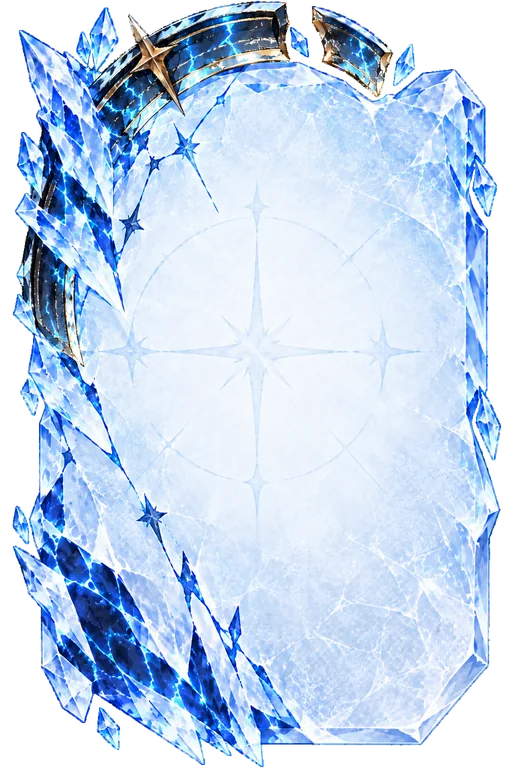
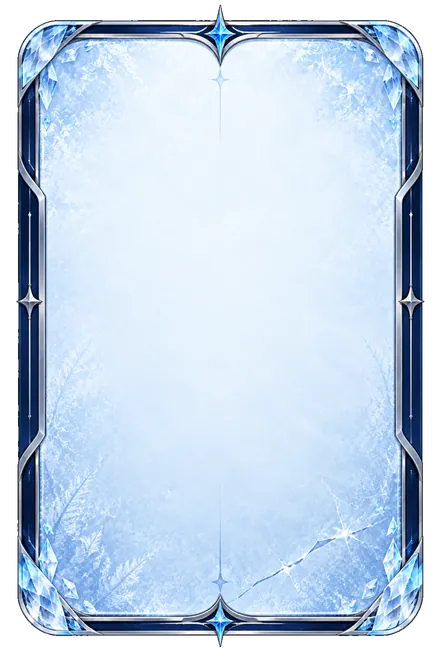
v135: セトラのカード差し替えと初手/決定打の速度分離
カード
- 通常カード: 銀枠＋霜のデザイン 1.2MB→31KB
- 星環カード: 金枠＋濃紺＋光る輪 1.4MB→49KB
- 440x660。並べた時にひと目で区別がつくようになった

速度
- 初手(場が0枚)と決定打(10完成)を個別に指定できるようにした
  firstMs/firstJit/curStepFirst/curArrFirst/curHoldFirst/flyMsFirst/winMs/winJit
- セトラの初手: 合計225〜265ms。人のGO後1枚目(約250〜400ms)より速く、
  「GOで4枚連打して稼ぐ」戦法が通らなくなる
- セトラの決定打: 合計1010〜1230ms。反射神経で負ける理不尽さを解消
- 通常の手は従来通り670〜895ms
- 未指定のステージは全て従来値のまま（確認済み）

diff --git a/index.html b/index.html
@@ -2945,7 +2945,8 @@ function TutorialScreen({pendingDiff,onFinish,onExit,trackNum,toggleMusic,coachN
 
 
 // ── MenuScreen ──
-const APP_VER='v134'; // v134(2026/09/09): 凍結カードを専用の絵に差し替え。中央の濃紺の円に残り秒を白抜きで大きく表示（CSSで描いていた氷は廃止）
+const APP_VER='v135'; // v135(2026/09/09): セトラのカード2種を新デザインに差し替え。初手のみ人のタップより速く(約250ms)、決定打は遅く(約1100ms)して連打での稼ぎを封じつつ理不尽さを解消
+// v134(2026/09/09): 凍結カードを専用の絵に差し替え。中央の濃紺の円に残り秒を白抜きで大きく表示（CSSで描いていた氷は廃止）
 // v133(2026/09/09): 星環カードを軽量化 140KB→89KB（512x753→440x647、展開RAM 1.5MB→1.1MB）
 // v132(2026/09/09): セトラの星環カードを金装飾入りの新デザインに変更（通常カードと見分けがつかなかったため）。凍結の残り秒を右下から中央の大きい表示に移動
 // v131(2026/09/09): セトラの凍結を3枚→1枚に緩和（勝率16%→49%）。凍結音の立ち上がりを76%強めて気づきやすく。凍った瞬間だけカードを光らせる演出を追加
@@ -3049,7 +3050,7 @@ const AREA_01={
     {no:11,challengeNo:1,name:'ルナ',description:'異界から流れ着いた強い魂。ルナからレイピアへ変身する',icon:'card',winPt:30,diff:'normal',rule:'normal',challenge:true,rivalName:'ルナ',form2Name:'レイピア',shiftPt:15,ability:'starRing',bgm:'Iridescent_Trap.mp3'},
     {no:12,challengeNo:2,name:'モルフォ',description:'鱗粉の幻惑で手札の数字を変え続ける強敵',icon:'card',winPt:30,diff:'hard',rule:'normal',challenge:true,ch8:true,unlockAfter:11,rivalName:'モルフォ',ability:'confuse',speed:0.45,curStep:30,curArr:60,curHold:70,flyMs:240,intro:'video/intro-8-morpho.mp4',bgm:'Cold Logic.mp3'},
     // v127 チャレンジ③ セトラ。モルフォ撃破で解放。氷結の環＋盤面を読む思考
-    {no:13,challengeNo:3,name:'セトラ',description:'氷結の星環で手札を凍らせ、盤面を読んで退路を断つ',icon:'snow',winPt:30,diff:'master',rule:'normal',challenge:true,ch9:true,unlockAfter:12,rivalName:'セトラ',ability:'freeze',smart:true,speed:0.45,curStep:30,curArr:60,curHold:70,flyMs:240,bgm:'Frozen%20Judgment.mp3'},
+    {no:13,challengeNo:3,name:'セトラ',description:'氷結の星環で手札を凍らせ、盤面を読んで退路を断つ',icon:'snow',winPt:30,diff:'master',rule:'normal',challenge:true,ch9:true,unlockAfter:12,rivalName:'セトラ',ability:'freeze',smart:true,speed:0.45,curStep:30,curArr:60,curHold:70,flyMs:240,firstMs:20,firstJit:40,curStepFirst:10,curArrFirst:20,curHoldFirst:25,flyMsFirst:120,winMs:520,winJit:220,bgm:'Frozen%20Judgment.mp3'},
   ]
 };
 const STAGES={
@@ -3899,7 +3900,11 @@ function App(){
   const[dCur,setDCur]=useState({id:null,tap:false});const dCurR=useRef(null);const curBusyR=useRef(false);const curT=useRef([]);const curTokR=useRef(0);
   // v113: カーソルの速さはステージ側で指定できる（未指定なら従来通り）
   const _so=stageOptsR.current||{};
-  const CUR_STEP=_so.curStep||(_so.speed<1?55:110),CUR_HOLD=_so.curHold||(_so.speed<1?120:230),CUR_ARR=_so.curArr||120;
+  // v135: 初手（場が0枚）だけカーソルも降下も速める。人のタップ速度を上回らせるため
+  const _first=()=>fieldR.current.length===0&&!!_so.firstMs;
+  const CUR_STEP=()=>_first()?(_so.curStepFirst||_so.curStep||55):(_so.curStep||(_so.speed<1?55:110));
+  const CUR_HOLD=()=>_first()?(_so.curHoldFirst||_so.curHold||120):(_so.curHold||(_so.speed<1?120:230));
+  const CUR_ARR =()=>_first()?(_so.curArrFirst||_so.curArr||120):(_so.curArr||120);
   function cursorToCard(targetId,onArrive,check,onCancel){ // v121: 手札番号ではなくカード固有IDを追う
     if(curBusyR.current||targetId==null)return false;
     const order=dSlotsR.current.filter(id=>id!=null&&dIdsR.current.includes(id));
@@ -3912,10 +3917,10 @@ function App(){
     let cancelled=false;
     const abort=()=>{if(tok!==curTokR.current)return;curTokR.current++;curT.current.forEach(clearTimeout);curT.current=[];curBusyR.current=false;setDCur(c=>({id:c.id,tap:false}));if(!cancelled){cancelled=true;onCancel&&onCancel();}};
     const at=(ms,f)=>curT.current.push(setTimeout(()=>{if(!valid()){abort();return;}f();},ms));
-    steps.forEach((id,k)=>at((k+1)*CUR_STEP,()=>{dCurR.current=id;setDCur({id,tap:false});try{fxTone({f:1500,type:'sine',v:0.012,a:0.002,d:0.03,rev:0.1});}catch(e){}}));
-    const arrive=(steps.length+1)*CUR_STEP+CUR_ARR;
+    steps.forEach((id,k)=>at((k+1)*CUR_STEP(),()=>{dCurR.current=id;setDCur({id,tap:false});try{fxTone({f:1500,type:'sine',v:0.012,a:0.002,d:0.03,rev:0.1});}catch(e){}}));
+    const arrive=(steps.length+1)*CUR_STEP()+CUR_ARR();
     at(arrive,()=>{dCurR.current=targetId;setDCur({id:targetId,tap:true});try{fxTone({f:2200,f2:1200,type:'sine',v:0.05,a:0.002,d:0.12,rev:0.3});}catch(e){}});
-    at(arrive+CUR_HOLD,()=>{curBusyR.current=false;setDCur({id:targetId,tap:false});onArrive&&onArrive();});
+    at(arrive+CUR_HOLD(),()=>{curBusyR.current=false;setDCur({id:targetId,tap:false});onArrive&&onArrive();});
     return true;
   }
   function cursorTo(target,onArrive,check){const id=dIdsR.current[target];return cursorToCard(id,onArrive,check);}
@@ -4265,7 +4270,7 @@ function App(){
       if(CHRONO_CONFIG.guaranteeFirstUnlock&&firstChrono&&st.no===firstChrono.no&&!saveR.current.chronoIntro){chrono=true;updSave(s=>{s.chronoIntro=true;return s;});}
       else chrono=Math.random()<CHRONO_CONFIG.appearRate;
     }
-    stageOptsR.current={chrono,timeLimit:st.timeLimit||10,ability:st.ability||null,champion:st.champion||null,challenge:!!st.challenge,ch8:!!st.ch8,ch9:!!st.ch9,smart:!!st.smart,speed:st.speed||1,curStep:st.curStep||null,curArr:st.curArr||null,curHold:st.curHold||null,flyMs:st.flyMs||null,rivalName:st.rivalName||null,form2Name:st.form2Name||null,shiftPt:st.shiftPt||null,bgm:st.bgm||null};
+    stageOptsR.current={chrono,firstMs:st.firstMs||null,firstJit:st.firstJit||0,curStepFirst:st.curStepFirst||null,curArrFirst:st.curArrFirst||null,curHoldFirst:st.curHoldFirst||null,flyMsFirst:st.flyMsFirst||null,winMs:st.winMs||null,winJit:st.winJit||0,timeLimit:st.timeLimit||10,ability:st.ability||null,champion:st.champion||null,challenge:!!st.challenge,ch8:!!st.ch8,ch9:!!st.ch9,smart:!!st.smart,speed:st.speed||1,curStep:st.curStep||null,curArr:st.curArr||null,curHold:st.curHold||null,flyMs:st.flyMs||null,rivalName:st.rivalName||null,form2Name:st.form2Name||null,shiftPt:st.shiftPt||null,bgm:st.bgm||null};
     if(st.challenge&&typeof SHIFT_VIDEO!=='undefined'){try{[SHIFT_VIDEO.v1,SHIFT_VIDEO.v2].forEach(u=>fetch(u,{mode:'no-cors',cache:'force-cache'}).catch(()=>{}));}catch(e){}} // v78: 変身動画を先読み
     if(st.no===1&&!st.challenge&&!saveR.current.storyIntroSeen){setPhase('storyIntro');phaseR.current='storyIntro';return;}
     if(st.champion&&CHAMPIONS[st.champion]){setPendingDiff(st.diff);setPhase('champIntro');phaseR.current='champIntro';return;} // v61 登場画面を挟む
@@ -4436,6 +4441,11 @@ function App(){
     }
     const _canWin10=dHR.current.some(v=>canPlay(v,fieldSumR.current,fieldR.current)&&fieldSumR.current+v===10);
     d=Math.round(d*((stageOptsR.current&&stageOptsR.current.speed)||1)); // v112: 速い相手
+    // v135 セトラ: 初手だけ人のタップより速くして「GOで4枚連打」を封じる。
+    // 逆に決定打(10完成)は遅らせる。反射神経で負けるのは理不尽で面白くないため
+    const so135=stageOptsR.current||{};
+    if(delay===null&&fieldR.current.length===0&&so135.firstMs)d=so135.firstMs+Math.round(Math.random()*(so135.firstJit||0));
+    if(delay===null&&_canWin10&&so135.winMs)d=Math.max(d,so135.winMs+Math.round(Math.random()*(so135.winJit||0)));
     // v113: 10を完成させる一手だけは、速度倍率のあとでも下限220msを守る（v40の趣旨）
     // ここを消すと人が反応できない速さになる。モルフォを更に強くしたい時もこの行は残す
     if(delay===null&&_canWin10)d=Math.max(d,220);
@@ -4537,7 +4547,9 @@ function App(){
     const x0=cr.left+cr.width/2,y0=cr.top+cr.height/2,x1=fr.left+n*(cardW+gap)+cardW/2,y1=fr.top+fr.height/2;
     const newDH=dHand.filter((_,i)=>i!==idx),newRf=rf.filter((_,i)=>i!==idx),newIds=dIdsR.current.filter((_,i)=>i!==idx);
     setDealer(newDH,newRf,newIds);
-    const FLY_MS=(stageOptsR.current&&stageOptsR.current.flyMs)||((stageOptsR.current&&stageOptsR.current.speed<1)?380:680);
+    const _so2=stageOptsR.current||{};
+    // v135: 初手だけ降下も速める
+    const FLY_MS=(fieldR.current.length===0&&_so2.flyMsFirst)?_so2.flyMsFirst:(_so2.flyMs||(_so2.speed<1?380:680));
     flyR.current={id:pick.id,value:chosen,face,rf:pickedRf};setFlyCard({k:Date.now(),value:chosen,face,x0,y0,x1,y1,w:cardW,d:FLY_MS});
     try{fxAir({v:0.03,a:0.02,d:0.5,hp:4000,rev:0.5});}catch(e){}
     setTimeout(()=>{
